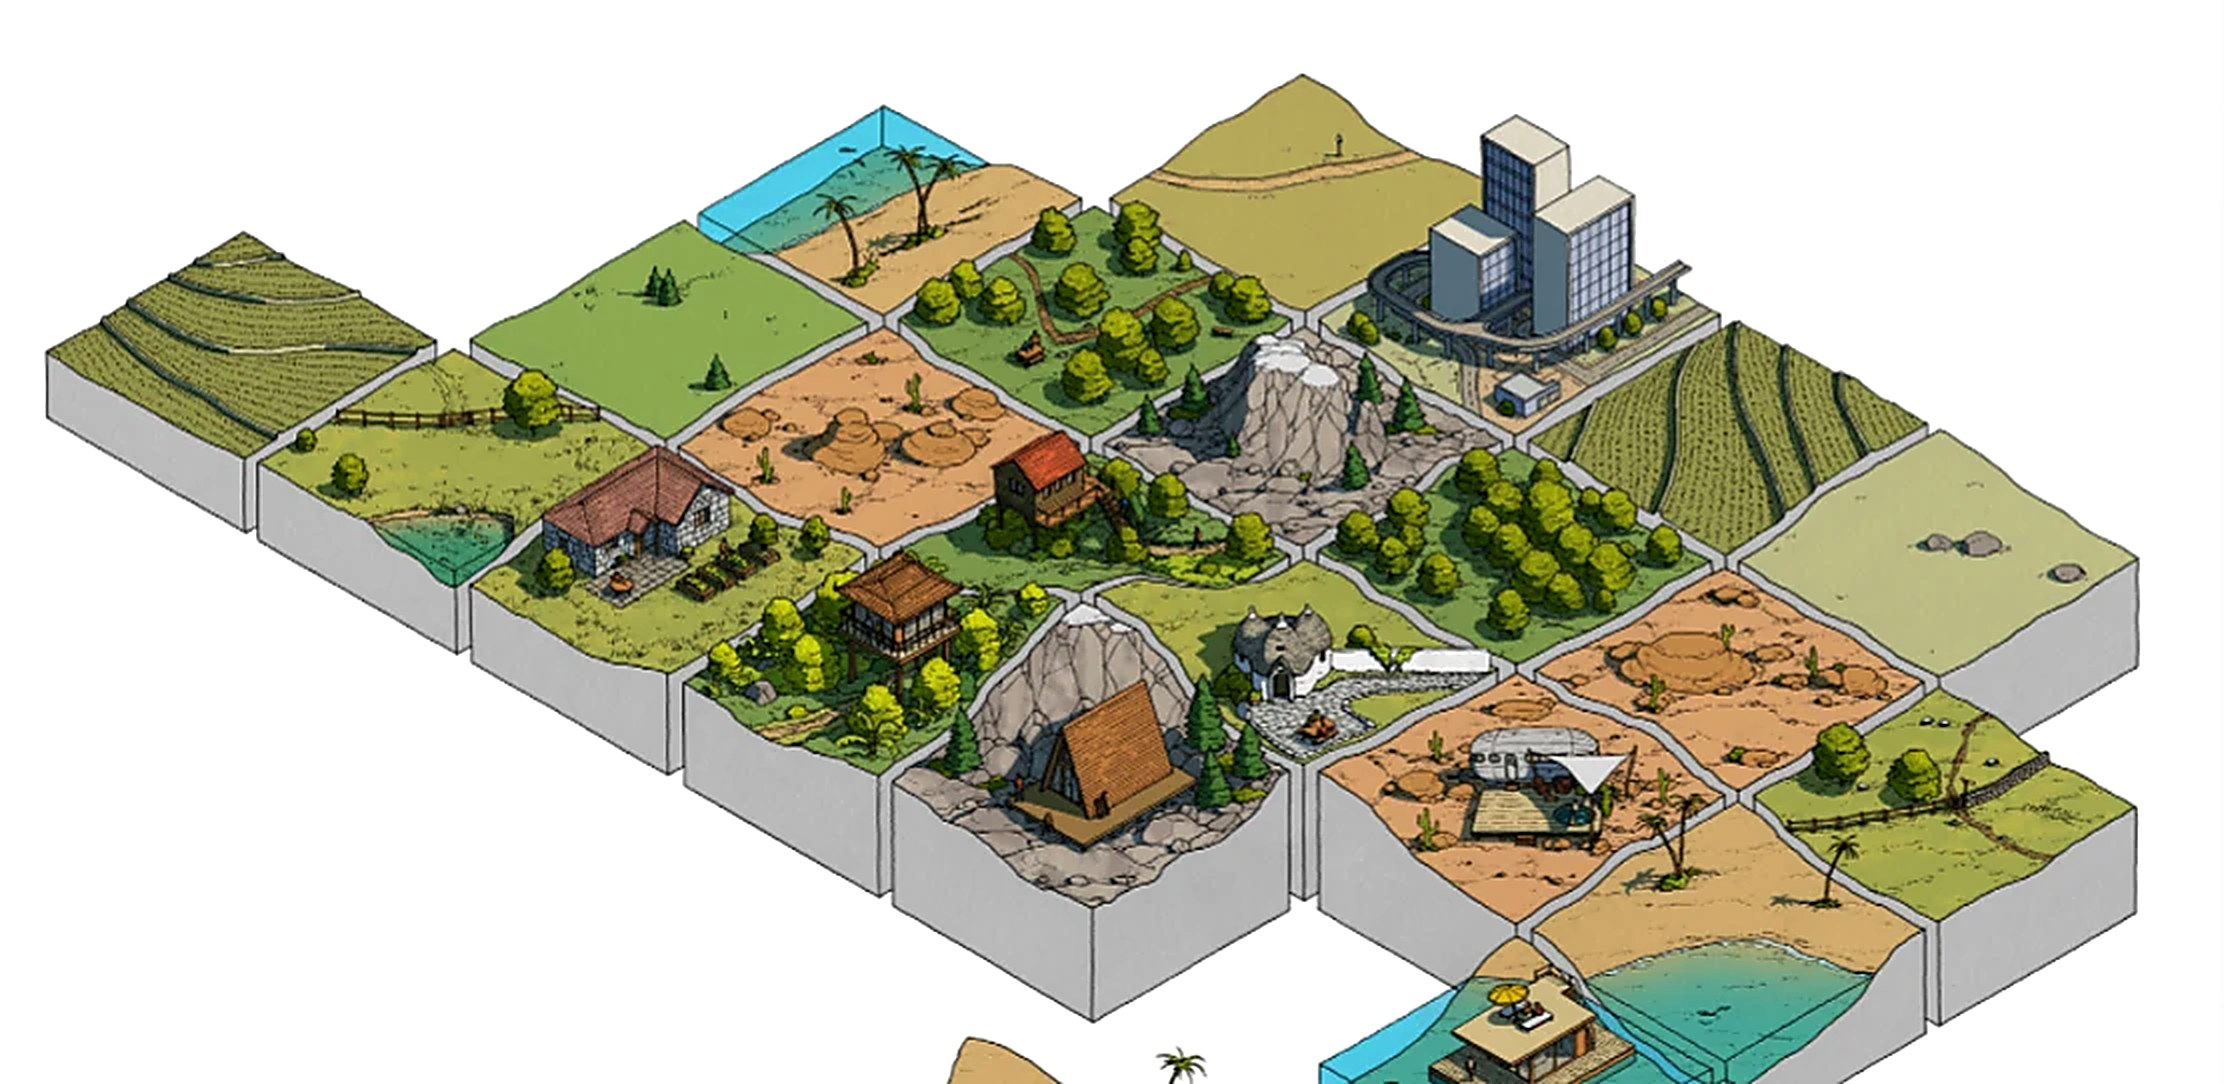
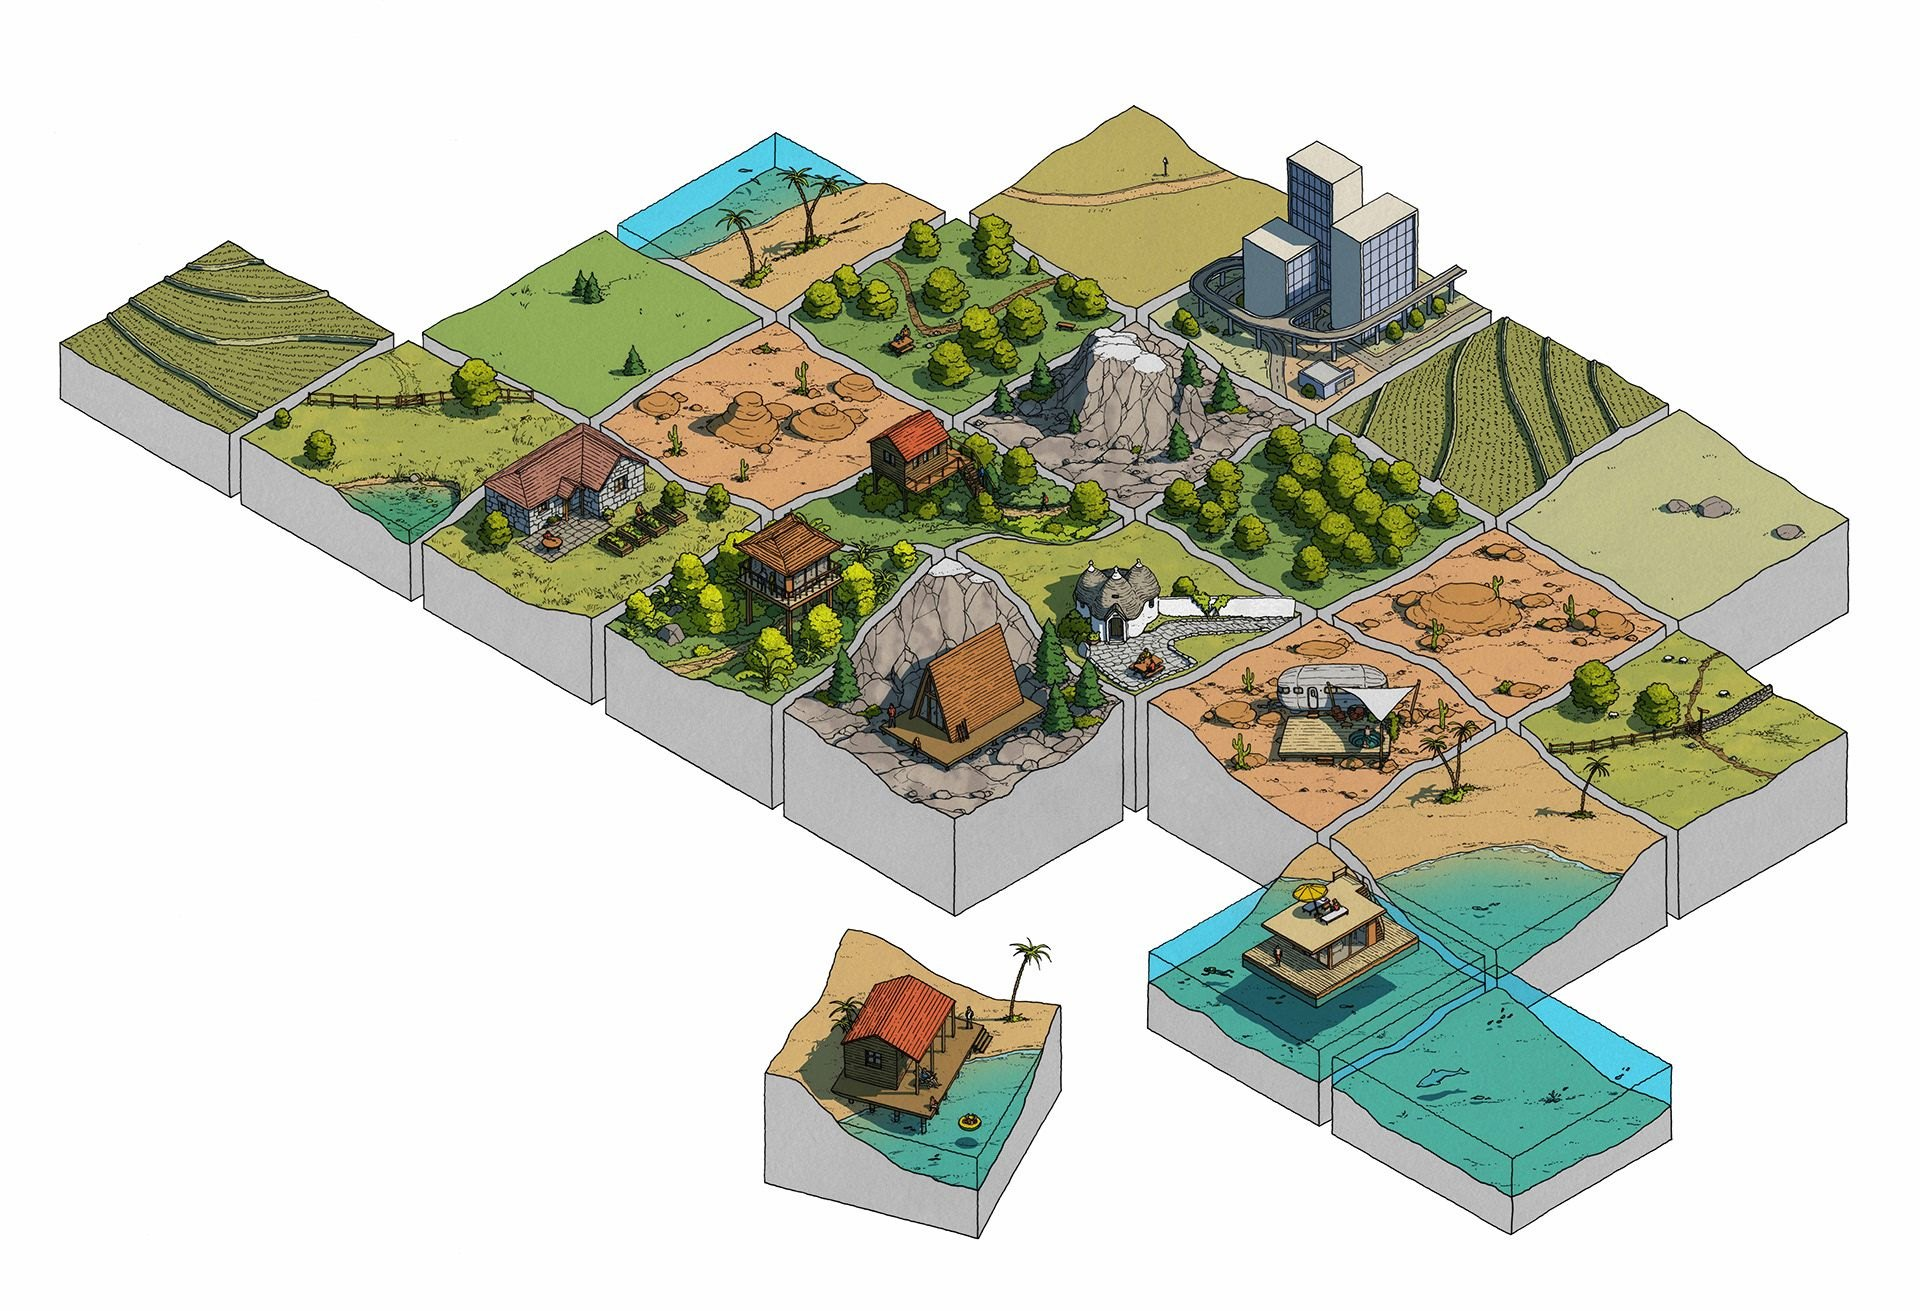
Add HD style references and Moebius colour reference

diff --git a/index.html b/index.html
@@ -125,11 +125,23 @@
       <p>I owned the art direction, 3D models, music and the main flat-colour shader, and worked with Joly Lin on the outline pass that completes the Moebius look. Without these passes the rooms read as clean 3D. With them they read as a drawing you can walk into.</p>
     </div>
     <div class="refs">
-      <button class="zoomable" type="button" data-full="portfolio/img/concept/ref-diorama.jpg"><img src="portfolio/img/concept/ref-diorama.jpg" alt="Style reference: an isometric cut-away diorama of a seaside terrace, drawn with ink outlines and flat colour." loading="lazy"></button>
-      <button class="zoomable" type="button" data-full="portfolio/img/concept/ref-tiles.jpg"><img src="portfolio/img/concept/ref-tiles.jpg" alt="Style reference: isometric landscape tiles with cut soil edges, ink outlines and flat colour." loading="lazy"></button>
-      <div class="refs-arrow" aria-hidden="true">→</div>
-      <div class="refs-out"><img src="portfolio/img/06-life-room.jpg" alt="Room Life in game, matching the references' cut-away and ink style" loading="lazy"></div>
-      <p class="refs-cap"><b>Target look.</b> Cut-away isometric blocks, ink outlines, flat colour with light shading. The references set the bar; the shaders below are how the Unity scene gets there.</p>
+      <figure class="ref">
+        <button class="zoomable" type="button" data-full="portfolio/img/concept/ref-moebius-edena.jpg"><img src="portfolio/img/concept/ref-moebius-edena.jpg" alt="Moebius illustration from The Art of Edena: an orange adobe house seen from above, a figure and a pack animal beside it, drawn with clean ink lines and flat colour." loading="lazy"></button>
+        <figcaption><b>Colour rule</b>Objects are simple: one flat colour, or an unusual gradient. This became the shader's flat base colour plus height gradient.<small>Moebius, <i>The Art of Edena</i>, Dark Horse Books</small></figcaption>
+      </figure>
+      <figure class="ref">
+        <button class="zoomable" type="button" data-full="portfolio/img/concept/ref-diorama.jpg"><img src="portfolio/img/concept/ref-diorama.jpg" alt="Style reference: an isometric cut-away diorama of a seaside terrace, drawn with ink outlines and flat colour." loading="lazy"></button>
+        <figcaption><b>Cut-away block</b>One space sliced out of the world, grey section walls, tiny people for scale.</figcaption>
+      </figure>
+      <figure class="ref">
+        <button class="zoomable" type="button" data-full="portfolio/img/concept/ref-tiles.jpg"><img src="portfolio/img/concept/ref-tiles.jpg" alt="Style reference: isometric landscape tiles with cut soil edges, ink outlines and flat colour." loading="lazy"></button>
+        <figcaption><b>Modular cubes</b>Separate tiles that read as one map. The model for rooms that move and lock together.</figcaption>
+      </figure>
+      <div class="refs-arrow" aria-hidden="true">↓</div>
+      <div class="refs-result">
+        <div class="refs-out"><img src="portfolio/img/06-life-room.jpg" alt="Room Life in game, matching the references' cut-away and ink style" loading="lazy"></div>
+        <p class="refs-cap"><b>In game.</b> Room Life as a cut-away cube with ink outlines and flat colour. The references set the bar; the shaders below are how the Unity scene gets there.</p>
+      </div>
     </div>
     <div class="passes">
       <div class="pass">

diff --git a/portfolio/site.css b/portfolio/site.css
@@ -213,14 +213,23 @@ body::before{content:"";position:fixed;inset:0 0 auto;height:env(safe-area-inset
 @media (max-width:900px){.p2b-row{grid-template-columns:minmax(0,1fr)}}
 
 /* style references in the look section */
-.refs{display:grid;grid-template-columns:minmax(0,.8fr) minmax(0,1.4fr) 40px minmax(0,1.3fr);gap:14px;align-items:center;margin-bottom:56px}
+.refs{display:grid;grid-template-columns:minmax(0,1.3fr) minmax(0,.75fr) minmax(0,1.1fr);gap:18px;align-items:start;margin-bottom:56px}
+.ref{margin:0;display:grid;gap:10px;min-width:0}
 .refs .zoomable{border-color:#000}
-.refs-arrow{font-family:var(--f-letter);font-size:40px;color:var(--hint);text-align:center}
+.ref .zoomable{height:clamp(220px,24vw,290px);overflow:hidden;background:#fff}
+.ref .zoomable img{width:100%;height:100%;object-fit:cover}
+.ref:nth-child(2) .zoomable img{object-position:50% 45%}
+.ref:nth-child(3) .zoomable img{object-fit:contain;padding:6px}
+.ref figcaption{font-size:14px;line-height:1.5;color:#b7c3bf}
+.ref figcaption b{display:block;font-family:var(--f-display);font-size:17px;color:var(--wall);margin-bottom:2px}
+.ref figcaption small{display:block;margin-top:6px;font-family:var(--f-mono);font-size:11px;color:#7f9692}
+.refs-arrow{grid-column:1/-1;font-family:var(--f-letter);font-size:40px;line-height:1;color:var(--hint);text-align:center}
+.refs-result{grid-column:1/-1;display:grid;grid-template-columns:minmax(0,1.3fr) minmax(0,1fr);gap:28px;align-items:center}
 .refs-out{border:2px solid #000}
-.refs-out img{width:100%;aspect-ratio:16/10;object-fit:cover}
-.refs-cap{grid-column:1/-1;font-size:15px;color:#b7c3bf;max-width:70ch}
+.refs-out img{width:100%;aspect-ratio:16/9;object-fit:cover}
+.refs-cap{font-size:15px;color:#b7c3bf;max-width:46ch}
 .refs-cap b{color:var(--wall)}
-@media (max-width:900px){.refs{grid-template-columns:minmax(0,1fr) minmax(0,1fr)}.refs-arrow{display:none}.refs-out{grid-column:1/-1}}
+@media (max-width:900px){.refs{grid-template-columns:minmax(0,1fr)}.ref .zoomable{height:auto;aspect-ratio:4/3}.refs-result{grid-template-columns:minmax(0,1fr)}}
 
 /* playtest */
 .test{margin-top:72px;display:grid;grid-template-columns:minmax(0,1fr) minmax(0,1.15fr);gap:48px}
